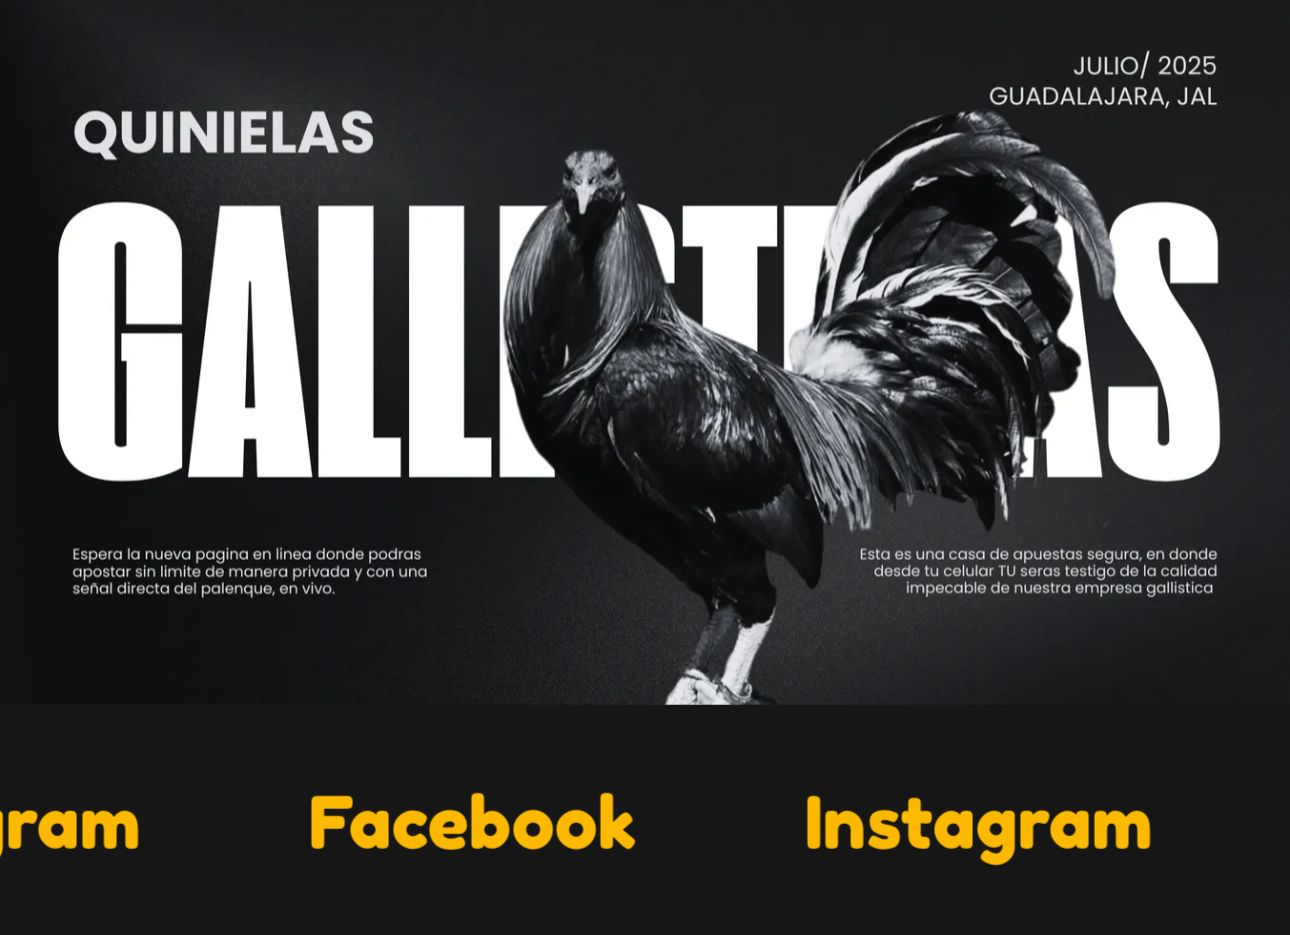
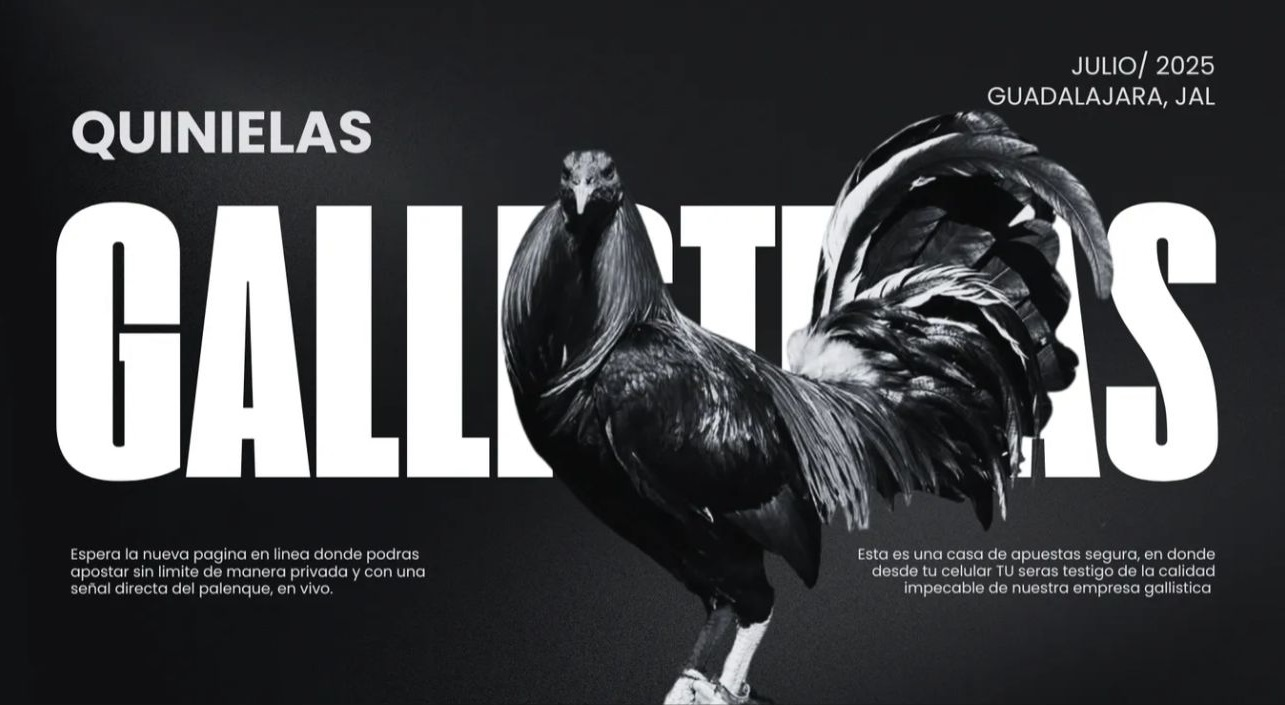
Cambio front
-Cambio de botones
-Estilos
-Funciones
-Modificacion del login

diff --git a/src/app/login/login.component.html b/src/app/login/login.component.html
@@ -3,15 +3,13 @@
 <hr>
 <div class="main">
   <div class="login-form">
-    <div>
+    <div class="fotos_login">
+    <img class="inicia_sesion" src="./assets/image/Iniciar_sesión.png" alt="">
     <img class="logo" src="./assets/image/logo.png" alt="">
-    <h2>Iniciar sesión</h2>
     </div>
-    
-
     <form [formGroup]="formulario" (ngSubmit)="onSubmit()">
       <div class="form-group">
-        <strong></strong><label for="username">Escribe tu usuario</label>
+        <label for="username">Escribe tu usuario</label>
         <input type="text" formControlName="username" required placeholder="Usuario">
       </div>
 
@@ -19,8 +17,7 @@
         <label for="password">Escribe tu contraseña</label>
         <input type="password" formControlName="password" required placeholder="Contraseña">
       </div>
-
-      <button type="submit" class="btn-iniciar">INICIAR</button>
+      <button type="submit" class="btn-iniciar">Iniciar</button>
       
       <!-- <div class="forgot-password">
         <a href="#">Olvidé mi contraseña</a>
@@ -28,8 +25,8 @@
     </form>
     
     <div class="new-user">
-      <p>¿ERES NUEVO?</p>
-      <p class="crear_cuenta">¡Crea una cuenta ahora!</p>
+      <strong><p>¿ERES NUEVO?</p></strong>
+      <strong><p class="crear_cuenta">¡Crea una cuenta ahora!</p></strong>
       <button (click)="Regitro()" class="btn-crear">Crear Cuenta</button>
     </div>
   </div>

diff --git a/src/app/login/login.component.css b/src/app/login/login.component.css
@@ -55,7 +55,7 @@ label {
   font-weight: bold;
   margin-bottom: 5%;
   margin-left: 10%;
-  font-size: 1rem;
+  font-size: 1.5rem;
   color: #ffffff;
 }
 
@@ -93,16 +93,17 @@ input:-webkit-autofill:focus {
   padding: 12px;
   border-radius: 14px;
   border: none;
-  background: linear-gradient(70deg, #ffee00, rgb(0, 0, 0));
+  background: linear-gradient(70deg, rgb(0, 0, 0), #bca35b);
   color: #ffffff;
   font-weight: bold;
   font-size: 1.3rem;
   letter-spacing: 1px;
   text-transform: uppercase;
   cursor: pointer;
-  box-shadow: 0 2px 5px rgba(0,0,0,0.2);
+  box-shadow: 0 1px 5px rgba(0,0,0,0.2);
   transition: all 0.3s ease;
-  margin: 10px solid white;
+  margin: 1px;
+  box-shadow: 0 0 0 2px #fff;
 
 }
 
@@ -182,11 +183,20 @@ input:-webkit-autofill:focus {
 
 }
 
-.logo{
-  justify-content: center;
+.fotos_login {
+  display: flex;
+  justify-content: space-between;
   align-items: center;
+}
+.inicia_sesion {
+  width: 45%;
+  height: 23%;
+  margin-top: -40px;
+}
+.logo {
   width: 23%;
   height: 23%;
+  margin-top: -100px;
 }
 hr {
   color: #fff;

diff --git a/src/app/index/index.html b/src/app/index/index.html
@@ -4,18 +4,10 @@
     <div class="menu"><a (click)="irPanel()">☰</a></div>
   </div>
 
-  <!-- Video de fondo -->
-  <video #backgroundVideo autoplay="autoplay" loop="loop" muted defaultMuted playsinline preload="auto" class="background-video">
-    <source src="../../assets/PLUMASS-FONDO.mp4" type="video/mp4">
-    <source src="../../assets/plumass_index.webm" type="video/webm">
-  </video>
-    <!-- Video de fondo para móviles -->
-  <video #mobileVideo autoplay="autoplay" loop="loop" muted defaultMuted playsinline preload="auto" class="mobile-video">
-    <source src="../../assets/plumass_index.mp4" type="video/mp4">
-  </video>
+  <!-- Imagen de fondo -->
+  <img class="background-image" src="../../assets/image/portada.jpg" alt="Portada">
 
-
-  <!-- Streams - MOVIDOS FUERA DE <video> -->
+  <!-- Streams -->
   <div class="streams">
     <!-- <h1>Eventos</h1> -->
      <div class="espaciador"></div>
@@ -30,8 +22,6 @@
       </div>
     </div>
   </div>
-
-
 </div>
 <!--cambios-->
 

diff --git a/src/app/login/login.component.ts b/src/app/login/login.component.ts
@@ -54,11 +54,12 @@ export class LoginComponent {
         localStorage.setItem('slogan', 'Usuario de Plumass')
       }
       console.log(response.token);
-
-      // Redirige al componente principal después de iniciar sesión
-      this.router.navigate(['/Inicio']);
+      if (response.token.rol === 'superUsuario' || response.token.rol === 'administrador') {
+        this.router.navigate(['/live-admin', 'Stream1', '440']);
+      } else {
+        this.router.navigate(['/live-inv', 'Stream1', '440']);
+      }
     }
-
   }
     esAdmin(): boolean {
       const rol = localStorage.getItem("Rol") || "";

diff --git a/src/app/enviar-recibo/enviar-recibo.component.css b/src/app/enviar-recibo/enviar-recibo.component.css
@@ -65,16 +65,18 @@
     background-color: #45a049;
   }
 .btn-submitLeft {
-    background-color: #FD9E00;
-    color: #fff;
-    position: fixed;
-    border: none;
-    border-radius: 4px;
-    cursor: pointer;
-    top: 0;
-    left: 0;
-    z-index: 10000;
-    padding: 10px 10px;
+   background-color: #ffffff;
+  color: #000;
+  border: none;
+  border-radius: 5px;
+  padding: 8px 15px;
+  font-weight: bold;
+  cursor: pointer;
+  box-shadow: 0 2px 4px rgba(0,0,0,0.2);
+  position: fixed;
+  top: 4px;
+  left: 4px;
+  z-index: 10000;
 }
   
 .btn-submitLeft:hover {

diff --git a/src/app/Register-invitado/register.component.css b/src/app/Register-invitado/register.component.css
@@ -44,7 +44,7 @@ label {
   display: block;
   margin-bottom: 8px;
   font-size: 0.9rem;
-  color: #000000;
+  color: #ffffff;
   font-family: Arial;
 }
 
@@ -66,8 +66,8 @@ input::placeholder {
   opacity: 1; /* Firefox necesita esto */
 }
 .btn-volver{
-  background-color: #FD9E00;
-  color: #fff;
+  background-color: #ffffff;
+  color: #000000;
   padding: 10px 15px;
   border: none;
   border-radius: 4px;
@@ -76,6 +76,8 @@ input::placeholder {
   position: fixed;
   left: 0;
   top: 0;
+  margin-top:2px;
+  margin:4px;
 }
 button {
   background-color: #000000;

diff --git a/src/app/mi-perfil/mi-perfil.component.ts b/src/app/mi-perfil/mi-perfil.component.ts
@@ -131,7 +131,12 @@ contactarWhatsApp(): void {
   window.open('https://chat.whatsapp.com/IJ95JG0WwxVJOGEHeCWZCu', '_blank');
 }
   volver(): void {
-    this.router.navigate(['/Inicio']); // Volver a la página principal
+    const rol = localStorage.getItem('Rol');
+    if (rol === 'superUsuario' || rol === 'administrador') {
+      this.router.navigate(['/live-admin', 'Stream1', '440']);
+    } else {
+      this.router.navigate(['/live-inv', 'Stream1', '440']);
+    }
   }
   logout(): void {
   // Eliminar todos los datos de apuestas del usuario

diff --git a/src/app/mi-perfil/mi-perfil.component.html b/src/app/mi-perfil/mi-perfil.component.html
@@ -50,9 +50,9 @@
       <button class="btn-accion" (click)="verHistorialApuestas()">HISTORIAL APUESTAS <span class="btn-ir">IR</span></button>
     </div>
     <!-- Botón de WhatsApp separado y centrado -->
-<div class="whatsapp-btn-container">
+<!--<div class="whatsapp-btn-container">
   <button class="btn-whatsapp" (click)="contactarWhatsApp()">UNIRME AL GRUPO DE WHATSAPP</button>
-</div>
+</div> -->
     <!-- <div class="cambio-password">
       <p class="password-text" (click)="toggleCambioPassword()">Restablecer contraseña</p>
       

diff --git a/src/app/admin/admin.component.html b/src/app/admin/admin.component.html
@@ -238,7 +238,7 @@
       <a (click)="irIniciarStream()" class="casino-btn casino-btn-green">Iniciar stream</a>
       <a (click)="irChats()" class="casino-btn casino-btn-green">Ver chats</a>
       <a (click)="irVideos()" class="casino-btn casino-btn-green">Ver stream</a>
-      <a (click)="irImagenStream()" class="casino-btn casino-btn-green">Imagen de stream</a>
+      <!--<a (click)="irImagenStream()" class="casino-btn casino-btn-green">Imagen de stream</a>-->
     </div>
     <!-- Usuarios -->
     <div class="admin-panel-casino-col">

diff --git a/src/app/index/index.component.css b/src/app/index/index.component.css
@@ -56,6 +56,7 @@ display: flex;
 .streams h1 {
   font-size: 2rem;
   margin-bottom: 1rem;
+  color: gold;
 }
 
 .header-content {
@@ -81,7 +82,7 @@ display: flex;
 }
 .menu a{
   font-size: 36px;
-  color: var(--colorSecondary);
+  color: #fff;
 }
 .header-content h1{
   margin: 4%;
@@ -96,7 +97,10 @@ display: flex;
   margin-top: 5px;
   margin-right: 10px;
 }
-
+.background-image{
+  width: 100%;
+  height: 100%;
+}
 .items {
   font-family: 'ChunkFive', sans-serif;
   display: flex;

diff --git a/src/app/chat/pages_invitado/chat-page.component.html b/src/app/chat/pages_invitado/chat-page.component.html
@@ -1,11 +1,6 @@
 <div class="main">
   <div class="menuContainer">
     <app-menu></app-menu>
-    <div>
-      <button class="btn-wrap" (click)="inicio()">
-        <img class="btn-submitLeft" src="../../../assets/image/granero_logo.jpg" alt="Logo">
-      </button>
-    </div>
 
     <div>
       <button class="btn-wrap" (click)="irMiPerfil()">

diff --git a/src/app/retirar-saldo/retirar-saldo.component.css b/src/app/retirar-saldo/retirar-saldo.component.css
@@ -14,7 +14,7 @@
 }
 
 .btn-volver {
-  background-color: #FFA500;
+background-color: #ffffff;
   color: #000;
   border: none;
   border-radius: 5px;
@@ -23,8 +23,8 @@
   cursor: pointer;
   box-shadow: 0 2px 4px rgba(0,0,0,0.2);
   position: fixed;
-  top: 10px;
-  left: 10px;
+  top: 4px;
+  left: 4px;
   z-index: 10000;
 }
 
